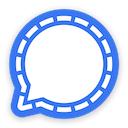
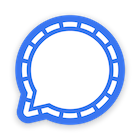
Added button for WhatSie

diff --git a/streamdeck-tricks.py b/streamdeck-tricks.py
@@ -85,6 +85,9 @@ current_deck.get_key(7)\
 current_deck.get_key(8)\
     .set_key_image('threema.png')\
     .execute_command("/usr/bin/chromium-browser --profile-directory=Default --app-id=hfcfobejdjlbgbkfiipblolhafdlkhfl")
+current_deck.get_key(9)\
+    .set_key_image('whatsie.png')\
+    .execute_command('env BAMF_DESKTOP_FILE_HINT=/var/lib/snapd/desktop/applications/whatsie_whatsie.desktop /snap/bin/whatsie --show-window')
 
 mic_key = current_deck.get_key(10)
 mic_key\
